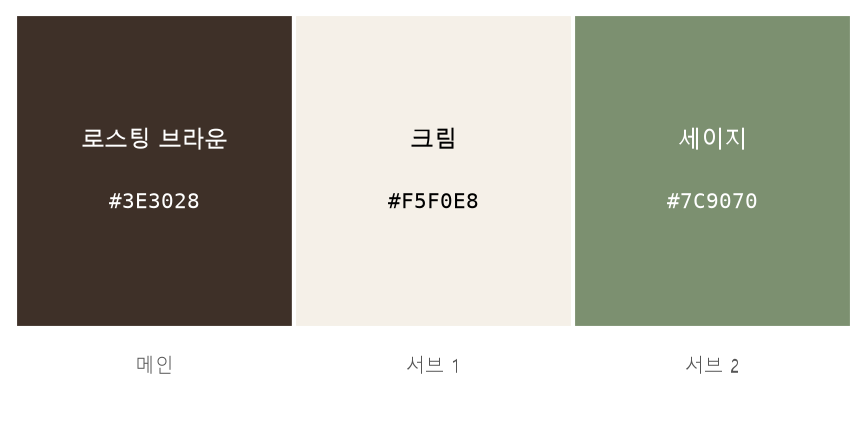
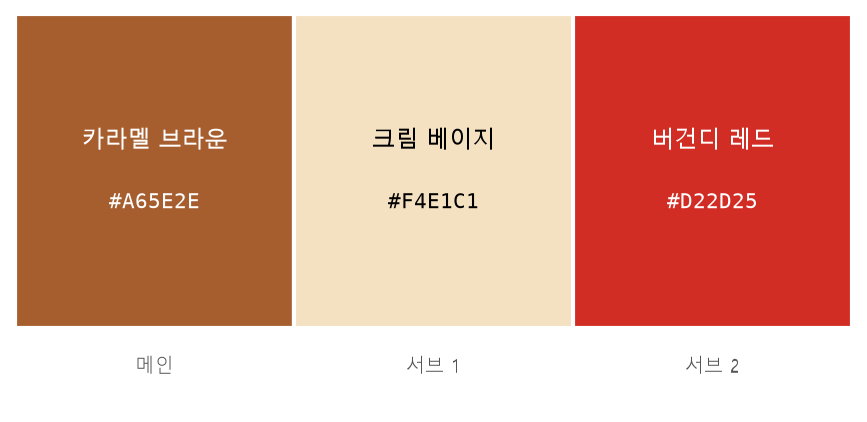
docs: 명세 점검표를 현재 구현에 맞춰 갱신
컬러 팔레트 LLM 생성, 스토리 재요청, 예시 값 기록, 테스트 135개를 반영한다.

diff --git a/output/brand_tokens.css b/output/brand_tokens.css
@@ -1,15 +1,15 @@
 :root {
-  --brand-main: #3E3028;
-  --brand-sub-1: #F5F0E8;
-  --brand-sub-2: #7C9070;
+  --brand-main: #A65E2E;
+  --brand-sub-1: #F4E1C1;
+  --brand-sub-2: #D22D25;
 }
 
 /* Tailwind — tailwind.config.js 의 theme.extend.colors 에 붙여 넣기
 {
   "brand": {
-    "DEFAULT": "#3E3028",
-    "sub1": "#F5F0E8",
-    "sub2": "#7C9070"
+    "DEFAULT": "#A65E2E",
+    "sub1": "#F4E1C1",
+    "sub2": "#D22D25"
   }
 }
 */

diff --git a/output/brand_result.md b/output/brand_result.md
@@ -1,6 +1,6 @@
 # 브랜드 아이덴티티 결과
 
-생성 시각: 2026-08-26T09:33:30 · 완료 단계 4/4
+생성 시각: 2026-08-26T10:28:08 · 완료 단계 4/4
 
 > 비어 있는 항목은 해당 파트가 아직 안 들어왔거나 실패한 것입니다.
 > 자세한 사유는 [`run_report.md`](run_report.md) 에 있습니다.
@@ -20,33 +20,33 @@
 
 ## 2. 네이밍 · 슬로건 · 스토리
 
-**여유다방 (YeyuDabang, yeh-yoo-DAH-bang)**
+**여유로운 (YeoYuRoUn, Yeo-Yu-Ro-Un)**
 
-> 일상의 여유로움을 담은 다방이라는 뜻으로, 소소한 쉼을 제공하고자 합니다.
+> ‘일상 속 여유’를 의미하며, 소비자들에게 따뜻한 힐링 경험을 제공하는 카페입니다.
 
 다른 후보
 
-- 커피쉼표 (CoffeeComma, KAH-fee-KOM-ma) — 커피와 쉼을 결합한 이름으로, 일상 속 잠시 멈춤을 상징합니다.
-- 온기카페 (OngiCafe, ON-gee-KAH-fay) — 따뜻한 감성을 지닌 카페를 의미하며, 사람들 간의 온정과 여유를 전합니다.
+- 담다 (Damda, Dam-da) — ‘함께 담다’의 의미를 담아, 소중한 일상을 공유하고 나누는 공간을 지향합니다.
+- 아침의 쉼 (MorningRest, Morning-Rest) — ‘하루의 시작에서 느끼는 안전한 쉼’으로, 바쁜 아침을 잠시 멈추고 여유를 찾는 카페입니다.
 
 ### 슬로건
 
-> 바쁜 일상 속 잠시 멈춤
-> 따뜻한 여유를 느껴보세요
-> 여유다방에서 쉼을 찾아요
+> 일상이 바쁜 당신을 위해
+> 따뜻한 감성을 담아
+> 여유로운, 쉼을 찾다
 
 ### 브랜드 스토리
 
-어느 날, 바쁜 일상 속에서 지친 20대 직장인들이 뜻밖의 쉼을 찾고자 모였습니다. 우리는 이들을 위해 '여유다방'을 탄생시켰습니다. 일상의 여유와 따뜻함을 제공하며, 친구들과 특별한 순간을 나누는 공간이 되길 원합니다. 이곳에서 감성적인 커피 한 잔을 즐기며, 소소한 행복을 찾길 바랍니다. 앞으로 우리는 여유로운 순간을 공유하는 특별한 장소로 자리잡고자 합니다.
+‘여유로운’은 바쁜 일상 속에서 스트레스를 느끼는 20~30대 직장인들의 고충을 경청하며 탄생했습니다. 하루의 비루함이 억압한 마음을 해방하고, 잠시나마 삶의 여유를 찾을 수 있는 따뜻한 공간을 제공하고자 하는 우리의 철학은 모든 이들에게 안전하고 안락한 휴식처를 제공하는 것에 그 뿌리를 두고 있습니다. 앞으로 ‘여유로운’은 단순한 카페의 경계를 넘어, 각자가 숨겨진 진정한 자신을 재발견하고 소중한 추억과 시간을 나눌 수 있는 특별한 공간이 되기를 소망합니다. 당신의 여유를 찾고, 다시 일상으로 돌아갈 힘을 충전하세요.
 
-*204자*
+*293자*
 
 ### 경쟁사 분석과 차별화 포인트
 
 | 경쟁사 | 시장에서의 자리 | 우리가 다르게 갈 지점 |
 | --- | --- | --- |
-| 블루보틀 | 프리미엄 커피 시장의 대표 브랜드 | 여유다방은 친구와의 교감을 중시하며, 모임의 장소로서의 따뜻함을 더욱 강화합니다. |
-| 스타벅스 | 커피 전문점의 글로벌 선두주자 | 우리는 감성과 여유를 통해 소소한 일상의 쉼을 선사하며, 따뜻한 커뮤니티를 형성하는 데 집중합니다. |
+| 블루보틀 | 스페셜티 커피 시장의 선두주자 | 여유로운은 바쁜 일상 속 휴식을 중시하며, 소비자에게 따뜻한 감성을 더한 공간적 경험을 제공합니다. |
+| 스타벅스 | 커피 프랜차이즈의 대명사 | 여유로운은 세련되면서도 감성적으로 접근하여, 개인의 정서적 쉼을 중시하는 차별화된 브랜드 경험을 추구합니다. |
 
 ---
 
@@ -54,13 +54,13 @@
 
 | 역할 | HEX | 이름 | 고른 이유 |
 | --- | --- | --- | --- |
-| 메인 | `#3E3028` | 로스팅 브라운 | 원두를 볶은 색에서 가져왔습니다 |
-| 서브 1 | `#F5F0E8` | 크림 | 여백을 만들고 글자를 읽기 쉽게 합니다 |
-| 서브 2 | `#7C9070` | 세이지 | 차분함을 더하는 포인트 색입니다 |
+| 메인 | `#A65E2E` | 카라멜 브라운 | 따뜻하고 포근한 느낌을 주어 일상 속 여유를 느끼게 해주는 메인 컬러입니다. |
+| 서브 1 | `#F4E1C1` | 크림 베이지 | 부드럽고 밝은 톤으로 배경에 사용하여 편안함을 느낄 수 있는 여백을 제공합니다. |
+| 서브 2 | `#D22D25` | 버건디 레드 | 상징적인 포인트 색으로 따뜻함과 감성을 더하며 메인 컬러와 조화를 이루어 카페의 세련된 분위기를 강조합니다. |
 
 **명도 대비 확인**
 
-- ⚠ 메인 색 #3E3028 위 검은 글씨 대비가 1.66:1 입니다 (WCAG AA 기준 4.5:1 미만)
+- ⚠ 메인 색 #A65E2E 위 검은 글씨 대비가 4.26:1 입니다 (WCAG AA 기준 4.5:1 미만)
 
 색을 고르는 건 사람의 판단이라 막지 않았습니다. 근거만 적어 둡니다.
 
@@ -72,11 +72,11 @@
 
 ![로고 시안 1](logo_01.png)
 
-프롬프트: `minimalist geometric icon, single abstract symbol suggesting leisure, solid roasted coffee brown shape on pure white background, flat vector, no lettering, no words, no signature, no watermark, centered, lots of white space`
+프롬프트: `minimalist geometric icon, single abstract symbol suggesting leisure, solid warm neutral tones shape on pure white background, flat vector, no lettering, no words, no signature, no watermark, centered, lots of white space`
 
 ### 시안 2
 
 ![로고 시안 2](logo_02.png)
 
-프롬프트: `simple pictogram, one abstract mark suggesting warmth, thick even strokes, solid roasted coffee brown on pure white background, flat design, wordless, textless, no typography, no letters, no numbers, centered, negative space`
+프롬프트: `simple pictogram, one abstract mark suggesting warmth, thick even strokes, solid warm neutral tones on pure white background, flat design, wordless, textless, no typography, no letters, no numbers, centered, negative space`
 

diff --git a/output/logo_prompts.md b/output/logo_prompts.md
@@ -14,13 +14,13 @@
 ### 시안 1
 
 ```text
-Draw a minimalist abstract symbol that suggests calm and unhurried ease. Flat vector illustration style, centered in the frame with generous empty space around it. Use roasted coffee brown as the only color, on a pure white background. Simple enough to recognize at a small size. Do not include any letters, words, numbers, signature, or watermark anywhere in the image. The mark must be completely wordless.
+Draw a minimalist abstract symbol that suggests calm and unhurried ease. Flat vector illustration style, centered in the frame with generous empty space around it. Use warm neutral tones as the only color, on a pure white background. Simple enough to recognize at a small size. Do not include any letters, words, numbers, signature, or watermark anywhere in the image. The mark must be completely wordless.
 ```
 
 ### 시안 2
 
 ```text
-Draw a single clean geometric icon that suggests warmth, drawn in thin even lines. Flat vector illustration style, centered in the frame with generous empty space around it. Use roasted coffee brown as the only color, on a pure white background. Simple enough to recognize at a small size. Do not include any letters, words, numbers, signature, or watermark anywhere in the image. The mark must be completely wordless.
+Draw a single clean geometric icon that suggests warmth, drawn in thin even lines. Flat vector illustration style, centered in the frame with generous empty space around it. Use warm neutral tones as the only color, on a pure white background. Simple enough to recognize at a small size. Do not include any letters, words, numbers, signature, or watermark anywhere in the image. The mark must be completely wordless.
 ```
 
 마음에 드는 그림이 나오면 `logo_01.png` · `logo_02.png` 로 저장해
@@ -38,7 +38,7 @@ Draw a single clean geometric icon that suggests warmth, drawn in thin even line
 생성: OpenAI 이미지 API
 
 ```text
-minimalist geometric icon, single abstract symbol suggesting leisure, solid roasted coffee brown shape on pure white background, flat vector, no lettering, no words, no signature, no watermark, centered, lots of white space
+minimalist geometric icon, single abstract symbol suggesting leisure, solid warm neutral tones shape on pure white background, flat vector, no lettering, no words, no signature, no watermark, centered, lots of white space
 ```
 
 ### 시안 2
@@ -46,5 +46,5 @@ minimalist geometric icon, single abstract symbol suggesting leisure, solid roas
 생성: OpenAI 이미지 API
 
 ```text
-simple pictogram, one abstract mark suggesting warmth, thick even strokes, solid roasted coffee brown on pure white background, flat design, wordless, textless, no typography, no letters, no numbers, centered, negative space
+simple pictogram, one abstract mark suggesting warmth, thick even strokes, solid warm neutral tones on pure white background, flat design, wordless, textless, no typography, no letters, no numbers, centered, negative space
 ```

diff --git a/output/run_report.md b/output/run_report.md
@@ -1,6 +1,6 @@
 # 실행 리포트
 
-실행 시각: 2026-08-26T09:33:30
+실행 시각: 2026-08-26T10:28:08
 
 | 단계 | 상태 | 비고 |
 | --- | :---: | --- |
